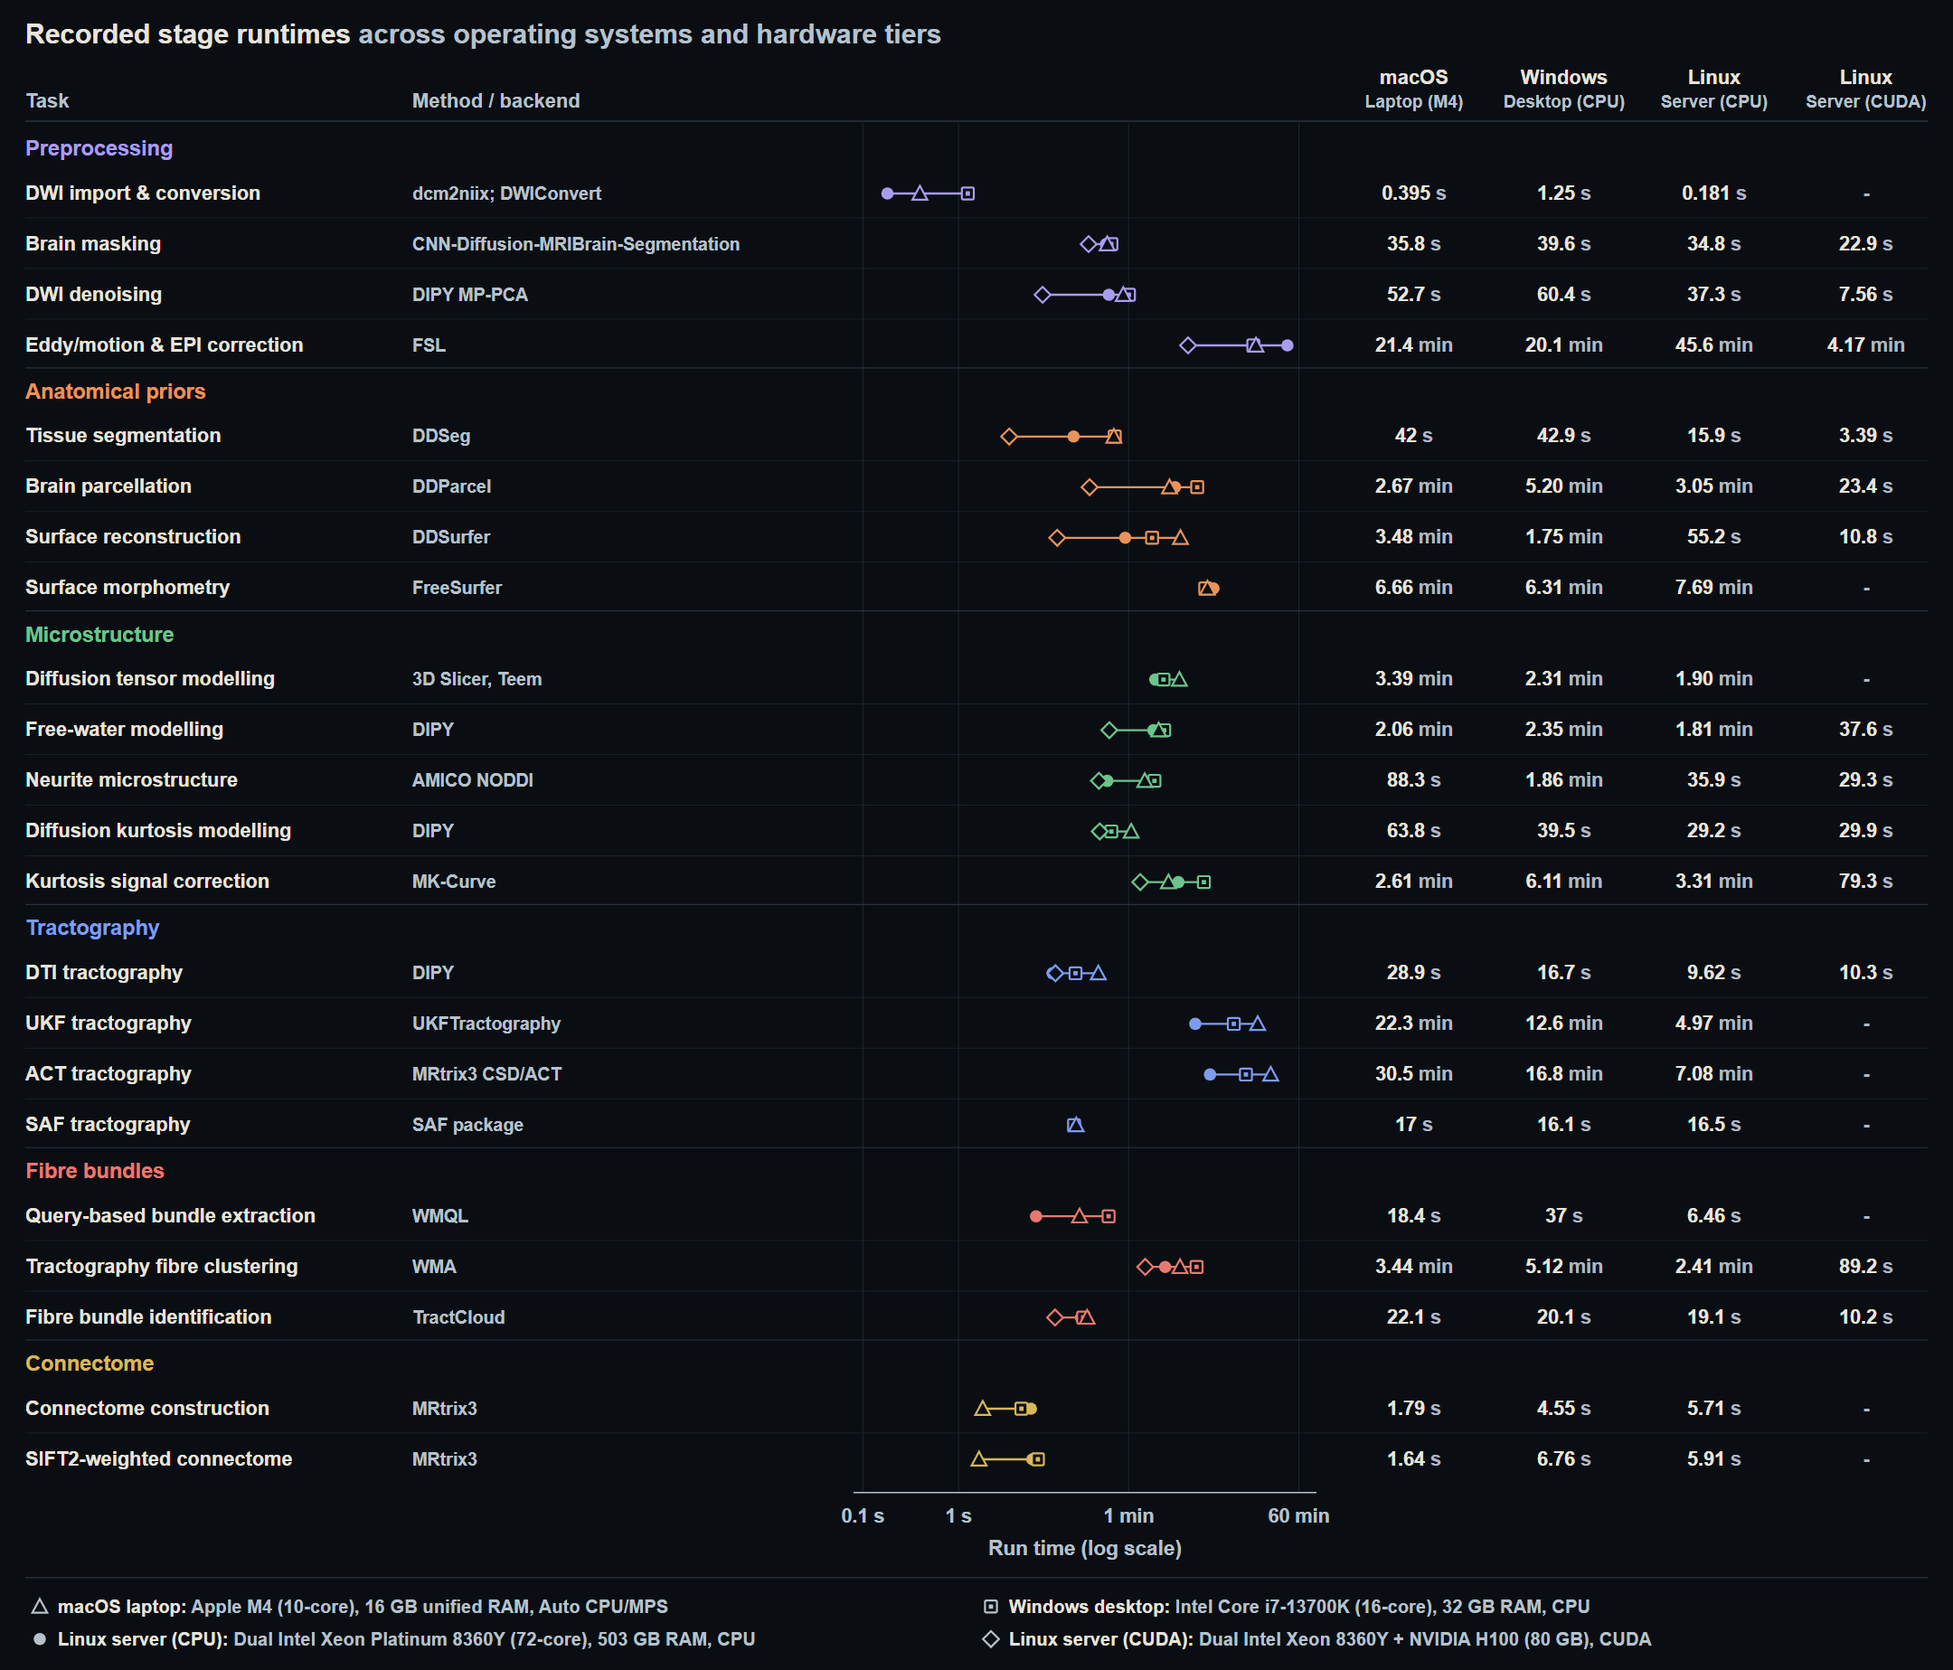
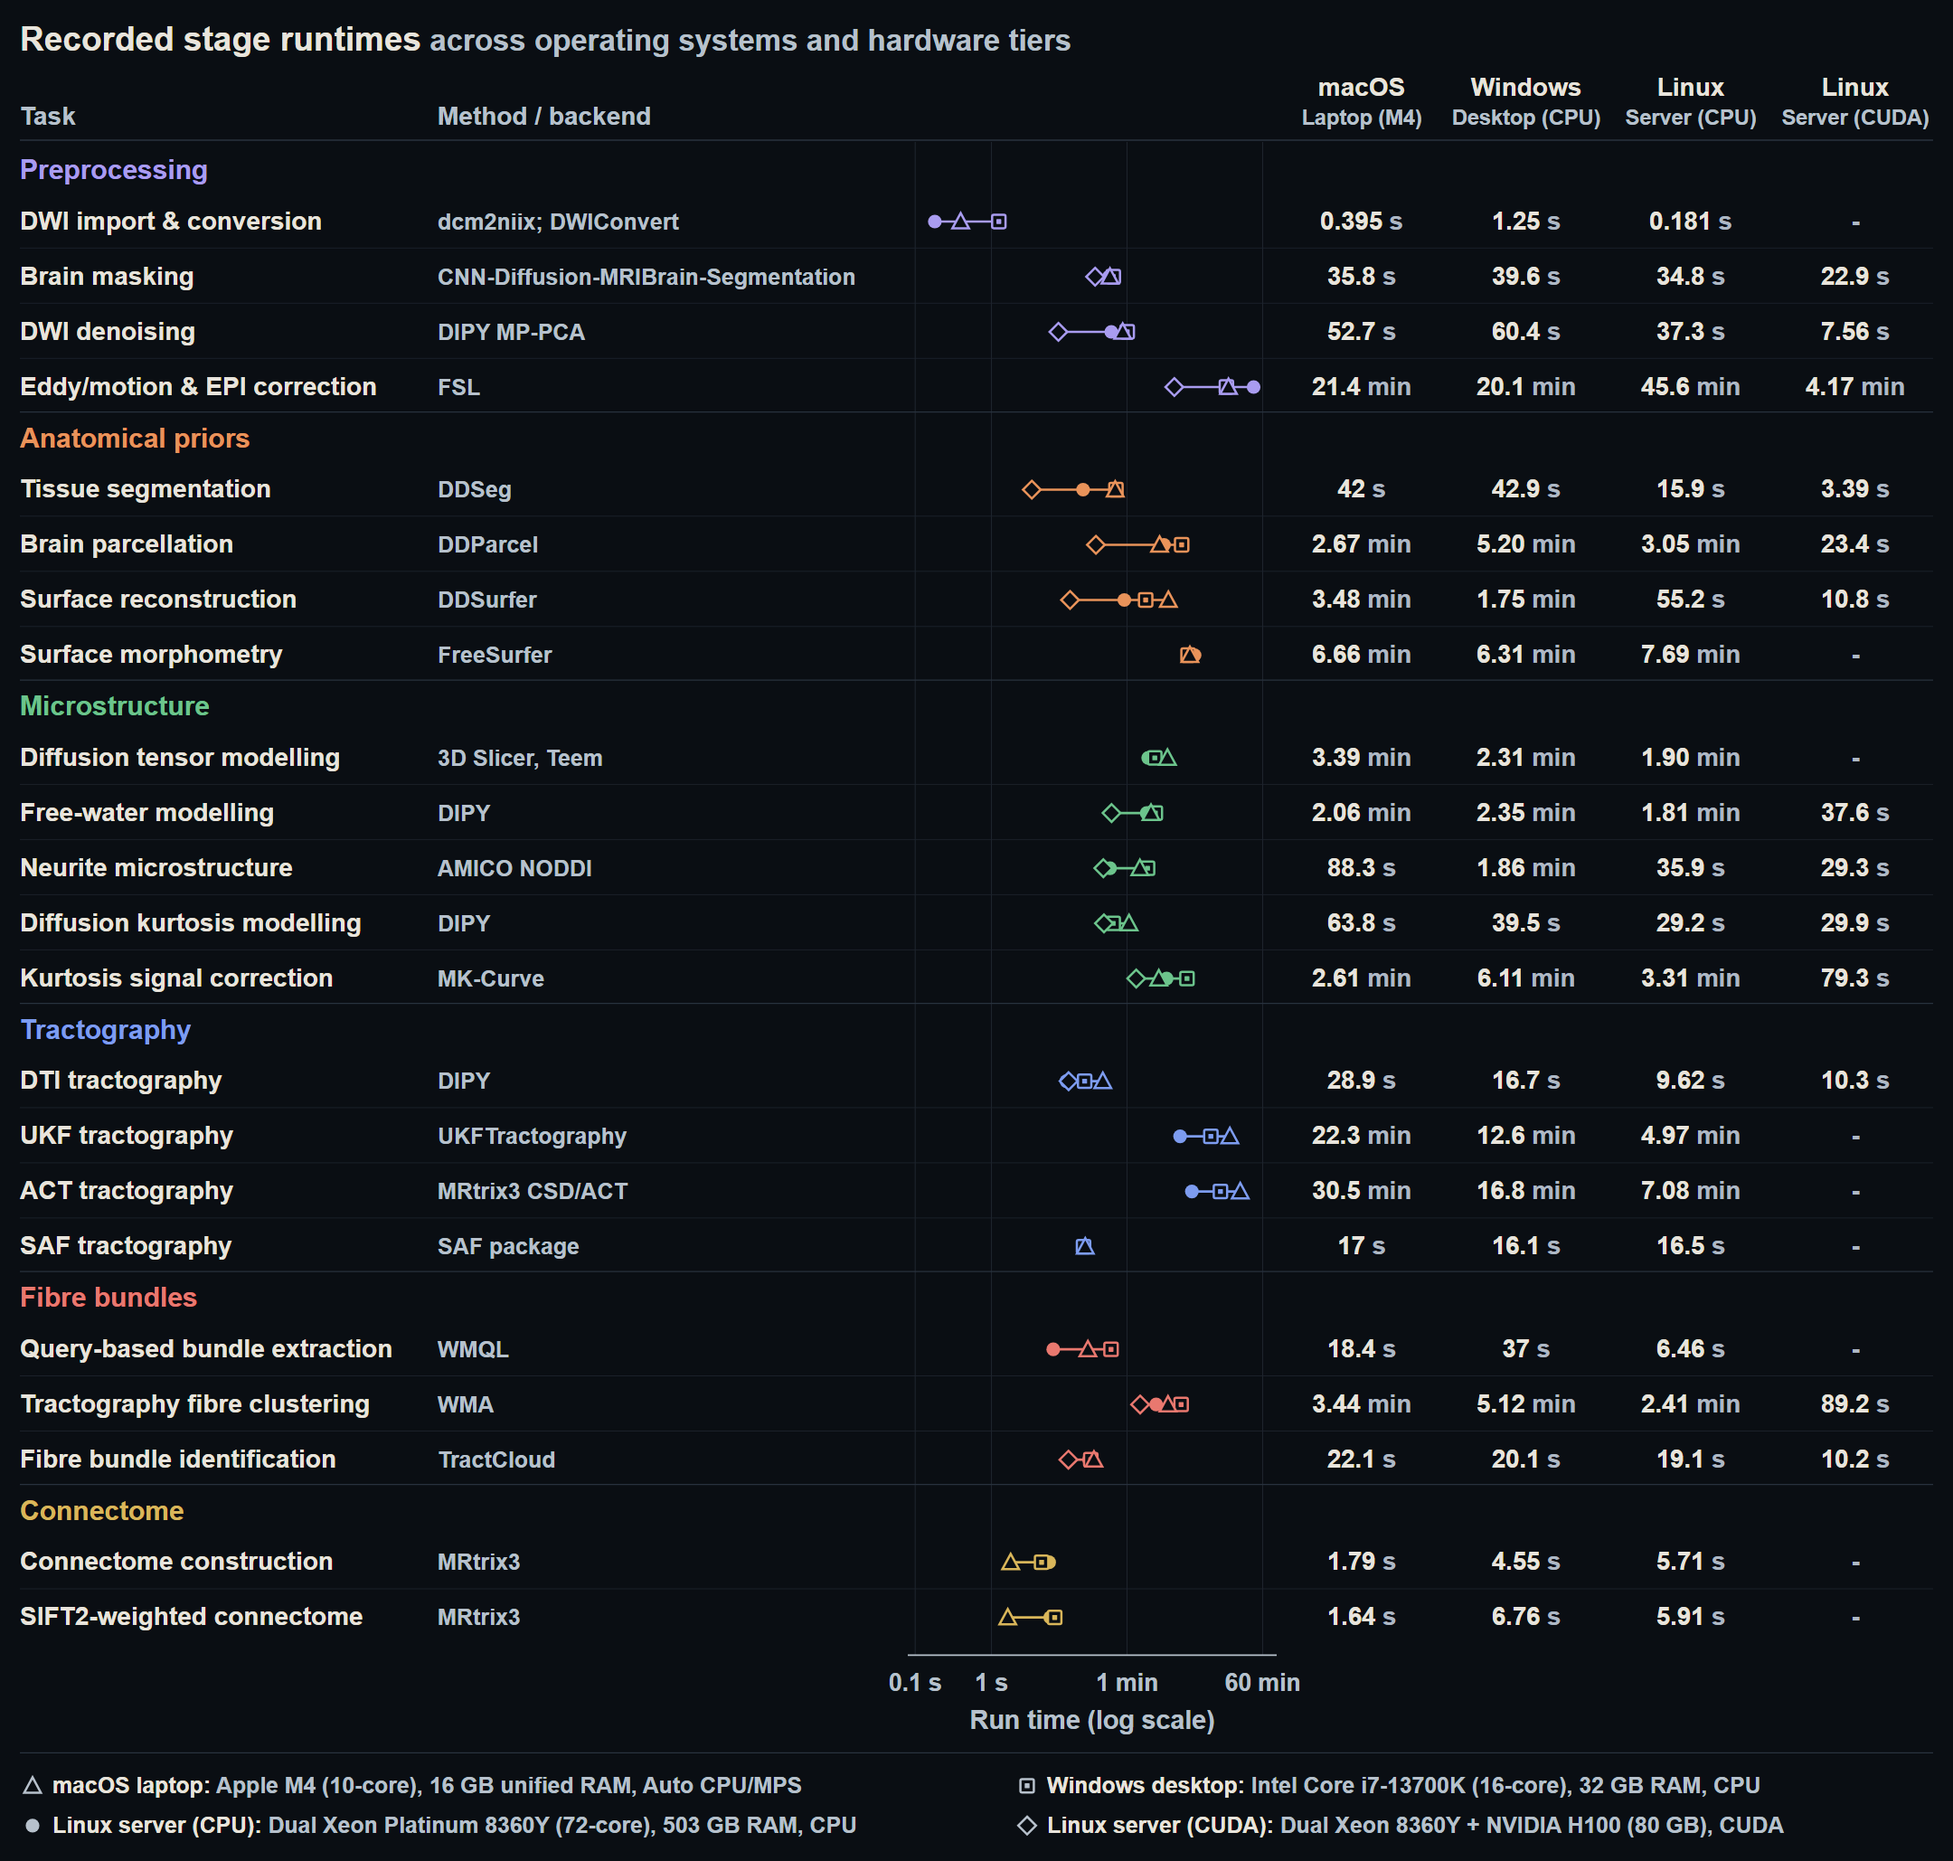
Sync enlarged typography for Recorded stage runtimes website figure

diff --git a/docs/site/zh.html b/docs/site/zh.html
@@ -226,7 +226,7 @@ export SUBJECT_ROOT="/path/to/sub-01"
       <a href="assets/img/fig-runtime-resources.png" target="_blank" rel="noopener" aria-label="查看完整的运行时间图">
         <picture>
           <source type="image/webp" srcset="assets/img/fig-runtime-resources.webp">
-          <img src="assets/img/fig-runtime-resources.png" width="2160" height="1847" loading="lazy" decoding="async" fetchpriority="low" alt="单列长图布局，每种算法占一行，同一对数时间轴上对比 macOS 笔记本（Apple M4，三角标记）、Windows 台式机 CPU（方框标记）、Linux 服务器 CPU（实心圆点）与 Linux 服务器 CUDA（空心菱形）；右侧四列按操作系统与硬件层级对齐给出全部实测耗时。">
+          <img src="assets/img/fig-runtime-resources.png" width="2160" height="2058" loading="lazy" decoding="async" fetchpriority="low" alt="单列长图布局，每种算法占一行，同一对数时间轴上对比 macOS 笔记本（Apple M4，三角标记）、Windows 台式机 CPU（方框标记）、Linux 服务器 CPU（实心圆点）与 Linux 服务器 CUDA（空心菱形）；右侧四列按操作系统与硬件层级对齐给出全部实测耗时。">
         </picture>
       </a>
       <figcaption>跨操作系统与硬件层级的分阶段实测耗时：macOS 便携笔记本（Apple M4 10 核、16 GB 统一内存、自动 CPU/MPS，覆盖全部 22 个模块）、Windows 个人台式机（Intel Core i7-13700K 16 核、32 GB 内存、纯 CPU，覆盖全部 22 个模块）与共用 Linux 计算服务器（双路 Intel Xeon Platinum 8360Y CPU 与 NVIDIA H100 PCIe 80 GB GPU，覆盖全部 22 项协议任务及其中 13 条 CUDA 加速路线）。每种算法占一行，右侧四列对齐给出 macOS Laptop (M4)、Windows Desktop (CPU)、Linux Server (CPU) 与 Linux Server (CUDA) 耗时；短横线表示仅支持 CPU、无 CUDA 路线的阶段。不同方法的线程配额不同且服务器为共享主机，因此不可直接解读为受控设备加速比；各行耗时不可直接相加。SAF 对既有的 100,000 条流线重过滤；TractCloud 使用 50,000 条流线作为输入。</figcaption>

diff --git a/docs/site/index.html b/docs/site/index.html
@@ -226,7 +226,7 @@ export SUBJECT_ROOT="/path/to/sub-01"
       <a href="assets/img/fig-runtime-resources.png" target="_blank" rel="noopener" aria-label="Open the full-size run-time figure">
         <picture>
           <source type="image/webp" srcset="assets/img/fig-runtime-resources.webp">
-          <img src="assets/img/fig-runtime-resources.png" width="2160" height="1847" loading="lazy" decoding="async" fetchpriority="low" alt="One row per algorithm in a single-column layout, with macOS laptop (Apple M4) triangles, Windows desktop (CPU) framed squares, Linux server (CPU) circles and open Linux server (CUDA) diamonds on a shared log-time axis. Aligned macOS, Windows and Linux columns give all recorded times.">
+          <img src="assets/img/fig-runtime-resources.png" width="2160" height="2058" loading="lazy" decoding="async" fetchpriority="low" alt="One row per algorithm in a single-column layout, with macOS laptop (Apple M4) triangles, Windows desktop (CPU) framed squares, Linux server (CPU) circles and open Linux server (CUDA) diamonds on a shared log-time axis. Aligned macOS, Windows and Linux columns give all recorded times.">
         </picture>
       </a>
       <figcaption>Recorded stage runtimes across operating systems and hardware tiers: a macOS laptop (Apple M4, 10-core, 16 GB unified memory, automatic CPU/MPS; all 22 modules), a Windows desktop (Intel Core i7-13700K, 16-core, 32 GB RAM, CPU-only; all 22 modules), and a shared Linux server (dual Intel Xeon Platinum 8360Y CPUs and an NVIDIA H100 PCIe 80 GB GPU across all 22 protocol tasks, including 13 CUDA-accelerated routes). Each algorithm occupies one row, with aligned macOS Laptop (M4), Windows Desktop (CPU), Linux Server (CPU) and Linux Server (CUDA) columns; a dash marks CPU-only stages without a CUDA route. Thread budgets differ by method and the server is shared, so these are not controlled device speed ratios. Rows are not summed. SAF re-filters 100,000 existing tracks; TractCloud uses 50,000 tracks.</figcaption>
